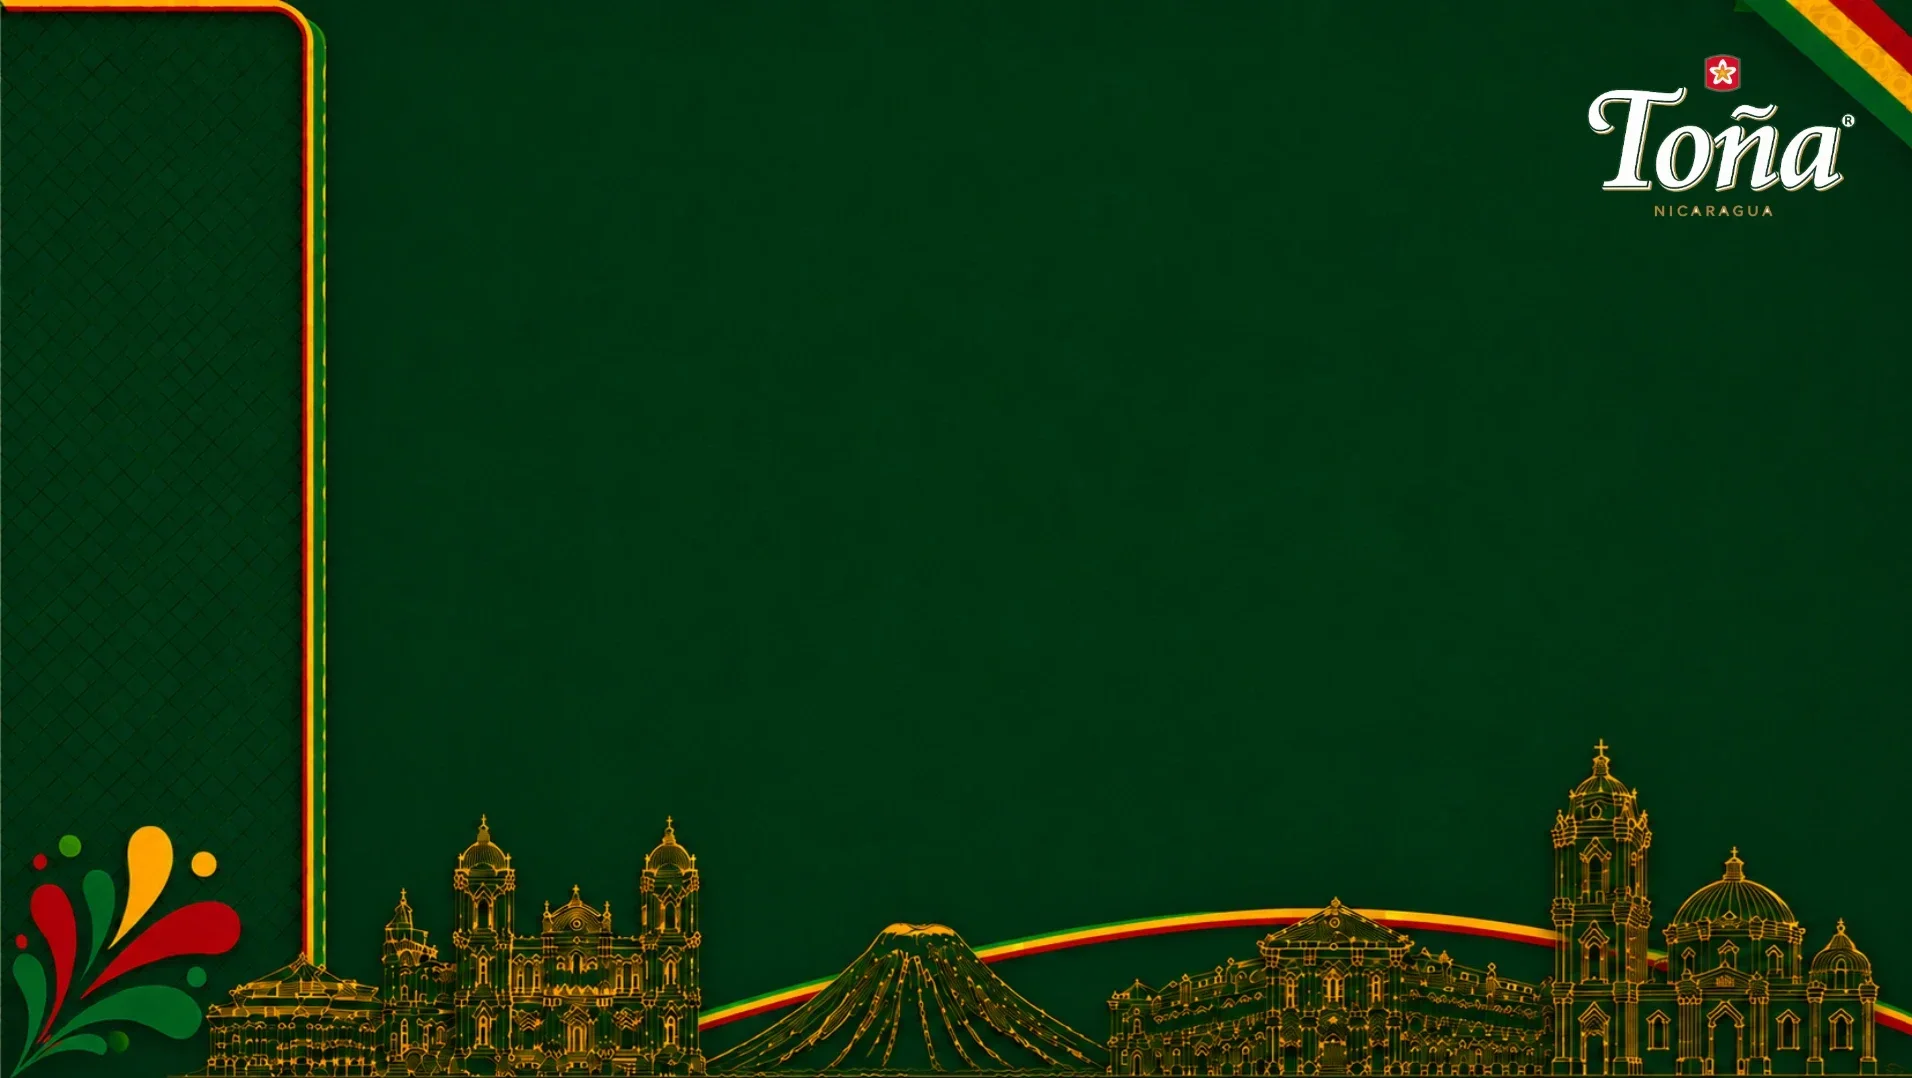
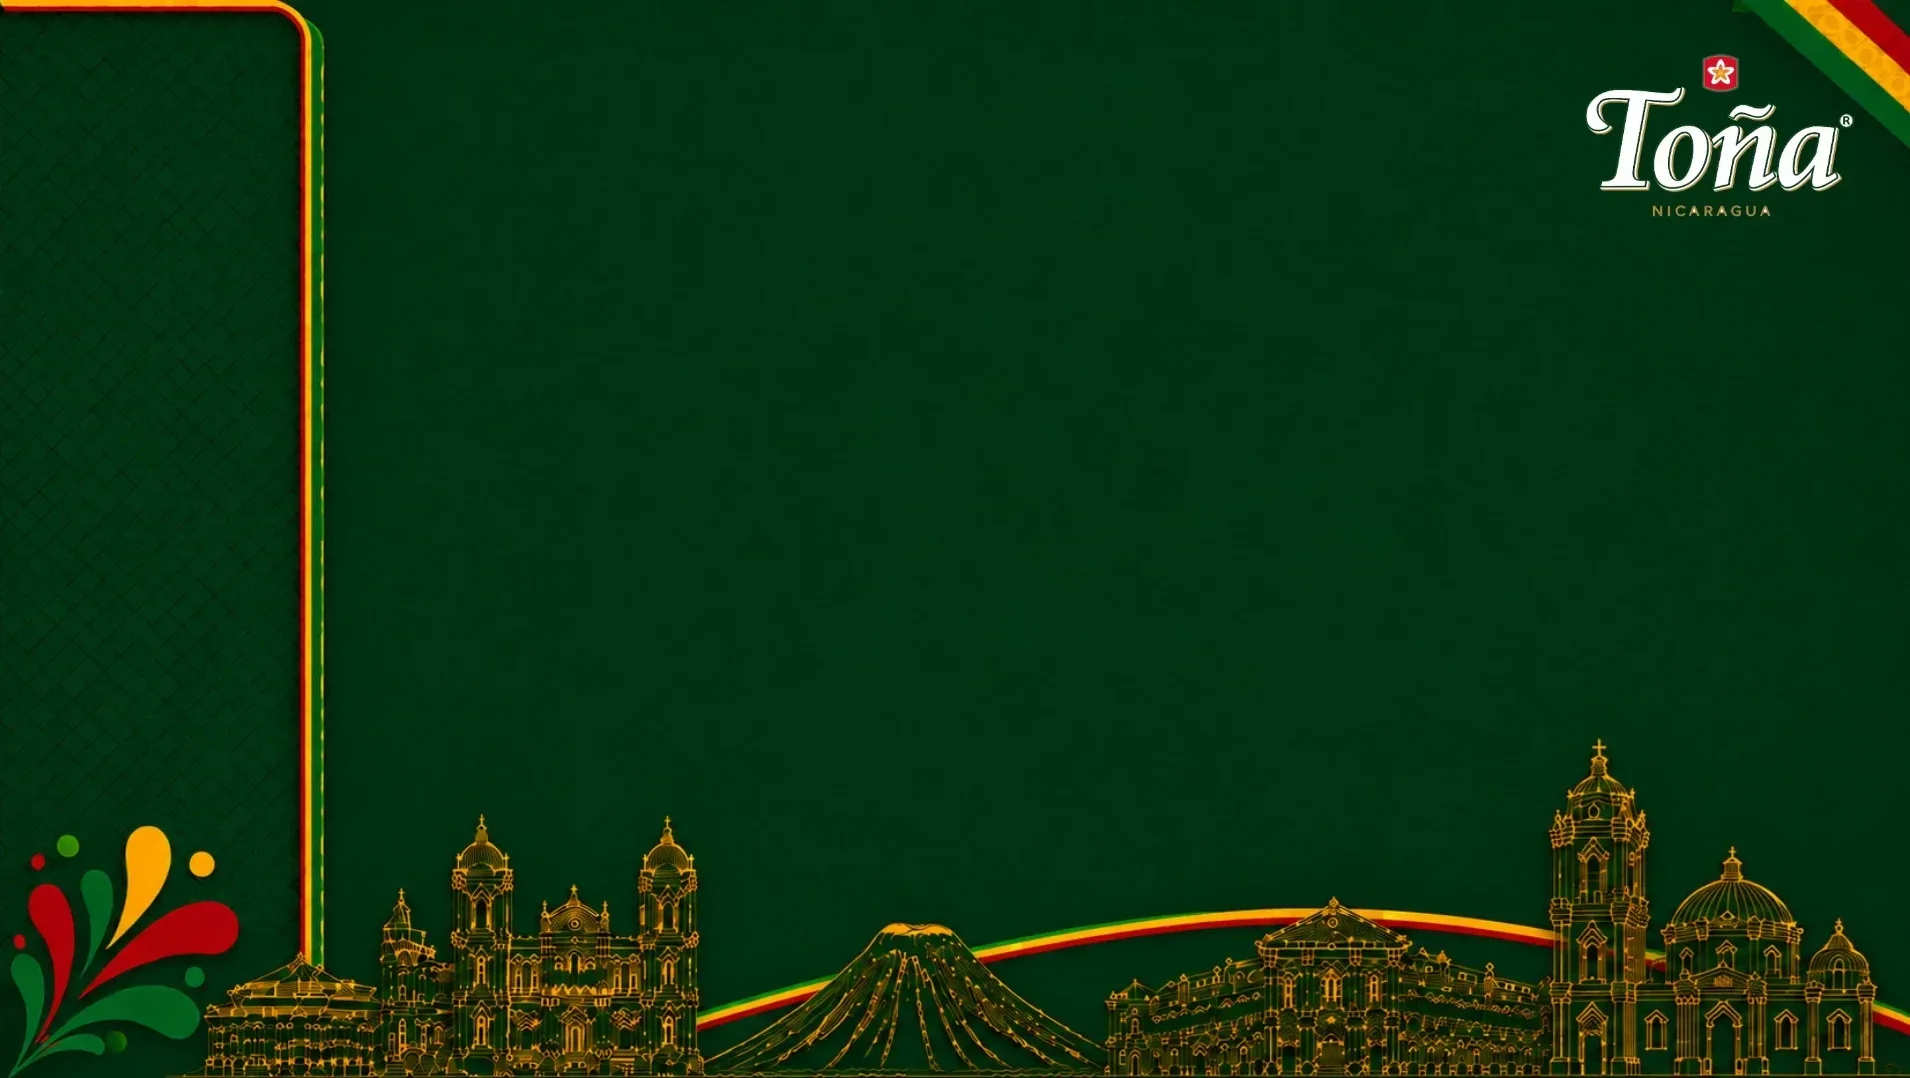
Portada: quitar la línea clara del borde izquierdo de la imagen
Claude-Session: https://claude.ai/code/session_019pA5Zqjcv9UHiFLvUhgKgB

diff --git a/index.html b/index.html
@@ -201,7 +201,7 @@ details.notes ul { line-height: 1.6; padding-left: 18px; }
 .kc-i b { display: block; font-size: 3.7cqw; font-weight: 900; color: var(--green-d); letter-spacing: -.01em; margin: .2cqw 0; }
 .kc-i span { display: block; font-size: 1.15cqw; color: var(--muted); }
 .kc-i span b { display: inline; font-size: inherit; font-weight: 800; color: var(--red); letter-spacing: 0; margin: 0; }
-.exec { border-radius: 22px; overflow: hidden; color: #fff; background: #01310f url(img/fondo_resumen.webp) left bottom / 100% auto no-repeat; padding: 34px 3.5% 18% 19%; position: relative; box-shadow: 0 16px 36px rgba(6,74,31,.22); }
+.exec { border-radius: 22px; overflow: hidden; color: #fff; background: #01310f url(img/fondo_resumen.webp?v=2) left bottom / 100% auto no-repeat; padding: 34px 3.5% 18% 19%; position: relative; box-shadow: 0 16px 36px rgba(6,74,31,.22); }
 .exec-logo { position: absolute; right: 3%; top: 24px; height: 54px; width: auto; background: #fff; border-radius: 10px; padding: 5px 9px; }
 .exec-k { display: block; font-size: 13px; font-weight: 800; letter-spacing: .1em; text-transform: uppercase; color: var(--gold); }
 .exec h3 { font-size: 26px; font-weight: 900; color: #fff; margin: 4px 0 18px; max-width: calc(100% - 130px); }
@@ -308,7 +308,7 @@ details.notes ul { line-height: 1.6; padding-left: 18px; }
 .sec p { color: rgba(255,255,255,.7); }
 details.notes { color: rgba(255,255,255,.78); background: rgba(0,0,0,.18); border: 1px solid rgba(255,255,255,.12); border-radius: 14px; padding: 12px 16px; }
 details.notes summary { color: #fff; }
-.cover, .hero, .kc, .exec, .camp-h, .back, .side { outline: 1px solid rgba(242,180,15,.28); outline-offset: -1px; }
+.cover, .hero, .kc, .exec, .camp-h, .back, .side { box-shadow: 0 0 0 1px rgba(242,180,15,.3), 0 14px 32px rgba(0,0,0,.3); }
 .camp-h { background: radial-gradient(520px 260px at 100% 0%, color-mix(in srgb, var(--c) 35%, transparent), transparent 70%), linear-gradient(120deg, #0d8538, #075a25 75%); }
 .card, .tile, .ch { box-shadow: 0 10px 24px rgba(0,0,0,.28); }
 
@@ -395,7 +395,7 @@ details.notes summary { color: #fff; }
 </nav>
 <div class="shell">
 <main class="wrap">
-  <figure class="cover" id="resumen"><img src="img/portada.webp" alt="Toña · Celebremos Nicaragua" width="1917" height="1078"><span class="cover-um"><img src="img/logo_cccp_um.png" alt="CCCP | UM"></span></figure>
+  <figure class="cover" id="resumen"><img src="img/portada.webp?v=2" alt="Toña · Celebremos Nicaragua" width="1915" height="1078"><span class="cover-um"><img src="img/logo_cccp_um.png" alt="CCCP | UM"></span></figure>
   <header class="hero" id="hero">
     <div class="hero-txt">
       <div class="hero-logos"><span class="tl-plate"><img class="tl" src="img/logo_tona.png" alt="Toña Nicaragua"></span></div>
